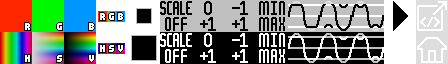
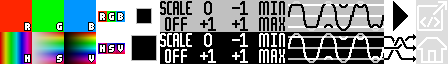
Adding shuffle option, tidying docs

Changed region(s): [[0.8438, 0.5312, 0.9375, 0.9688]]

diff --git a/src/js/colourform.js b/src/js/colourform.js
@@ -1,13 +1,19 @@
 const render = require("./render");
 
+// no cheating on your formulas!
+fetch = null;
+XMLHttpRequest = null;
+
 window.onload = function () {
   const qs = s => document.querySelector(s);
   const renderArea = qs(".render");
   let imageSize, colourMode;
 
   function getCleanedFn(field) {
-    const value = qs("[name=" + field + "]").value;
-    return value.replace(/\n/g, "").trim();
+    let value = qs(`[name=${field}]`).value;
+    value = value.replace(/\n/g, "").trim();
+    value = value.replace(/;$/, "");
+    return value;
   }
 
   function getScale(field) {
@@ -31,30 +37,30 @@ window.onload = function () {
     colourMode = qs("#colourMode").checked ? "hsv" : "rgb";
     qs("#model").className = colourMode;
     if (colourMode === "hsv") {
-      qs("label[for=colourMode]").title = 'Hue, Saturation, Value';
-      qs("label[for=first]").innerHTML = 'Hue';
-      qs("label[for=first]").title = 'Hue formula (0 - 360)';
-      qs("label[for=second]").innerHTML = 'Saturation';
-      qs("label[for=second]").title = 'Saturation formula (0 - 100)';
-      qs("label[for=third]").innerHTML = 'Value';
-      qs("label[for=third]").title = 'Value formula (0 - 100)';
+      qs("label[for=colourMode]").title = "Hue, Saturation, Value";
+      qs("label[for=first]").innerHTML = "Hue";
+      qs("label[for=first]").title = "Hue formula (0 - 360)";
+      qs("label[for=second]").innerHTML = "Saturation";
+      qs("label[for=second]").title = "Saturation formula (0 - 100)";
+      qs("label[for=third]").innerHTML = "Value";
+      qs("label[for=third]").title = "Value formula (0 - 100)";
     } else {
-      qs("label[for=colourMode]").title = 'Red, Green, Blue';
-      qs("label[for=first]").innerHTML = 'Red';
-      qs("label[for=first]").title = 'Red formula (0 - 255)';
-      qs("label[for=second]").innerHTML = 'Green';
-      qs("label[for=second]").title = 'Green formula (0 - 255)';
-      qs("label[for=third]").innerHTML = 'Blue';
-      qs("label[for=third]").title = 'Blue formula (0 - 255)';
+      qs("label[for=colourMode]").title = "Red, Green, Blue";
+      qs("label[for=first]").innerHTML = "Red";
+      qs("label[for=first]").title = "Red formula (0 - 255)";
+      qs("label[for=second]").innerHTML = "Green";
+      qs("label[for=second]").title = "Green formula (0 - 255)";
+      qs("label[for=third]").innerHTML = "Blue";
+      qs("label[for=third]").title = "Blue formula (0 - 255)";
     }
   }
 
   function setImageSize() {
     imageSize = qs("[name=imageSize]").checked ? "big" : "small";
     if (imageSize === "big") {
-      qs("label[for=imageSize]").title = 'Big (1400 x 1400)';
+      qs("label[for=imageSize]").title = "Big (1400 x 1400)";
     } else {
-      qs("label[for=imageSize]").title = 'Small (512 x 512)';
+      qs("label[for=imageSize]").title = "Small (512 x 512)";
     }
   }
 
@@ -63,7 +69,7 @@ window.onload = function () {
   }
 
   function setEnabled(field, disabled) {
-    const fields = document.querySelectorAll("[name=" + field + "]");
+    const fields = document.querySelectorAll(`[name=${field}]`);
     for (let index = 0; index < fields.length; index++) {
       fields[index].disabled = disabled;
     }
@@ -71,7 +77,8 @@ window.onload = function () {
 
   function setFailures(failures) {
     ["first", "second", "third"].forEach(f => {
-      qs(`#${f}`).className = failures.includes(f) ? "invalid" : "";
+      qs(`#${f}`).className = failures[f] ? "invalid" : "";
+      qs(`span[for=${f}].error`).innerHTML = failures[f] || "";
     });
   }
 
@@ -83,9 +90,9 @@ window.onload = function () {
       colourMode,
       imageSize,
       (failures, img) => {
-        setFailures(failures);
+        setFailures(failures || {});
         qs("#run").disabled = false;
-        if (failures && failures.length) {
+        if (failures) {
           setGenerated(false);
         } else {
           img.onclick = () => setGenerated(false);
@@ -103,6 +110,19 @@ window.onload = function () {
     }
     // arbitrary timeout to let the UI update
     setTimeout(runRender, 100);
+  };
+
+  qs("#shuffle").onclick = function () {
+    const positions = ["first", "second", "third"];
+    positions
+      .map(field => ({
+        v: qs(`[name=${field}]`).value,
+        r: Math.random()
+      }))
+      .sort((a, b) => a.r - b.r)
+      .forEach(({ v }, i) => {
+        qs(`[name=${positions[i]}]`).value = v;
+      });
   };
 
   qs("#colourMode").onclick = function (e) {

diff --git a/src/js/render.js b/src/js/render.js
@@ -75,7 +75,7 @@ function asScale(scaleOpt) {
     return (val, max) => val * max;
   }
   if (scaleOpt === "minMax") {
-    return (val, max, low, high) => (max * (val - low)) / (high - low || 1);
+    return (val, max, low, high) => (max * (val - low)) / (high - low);
   }
   return val => val;
 }
@@ -84,7 +84,7 @@ function render(firstOpt, secondOpt, thirdOpt, colourMode, imgSize, callback) {
   let firstFn, secondFn, thirdFn;
   let firstScale, secondScal, thirdScale;
   let firstLimit, secondLimit, thirdLimit;
-  let failures = [];
+  let failures = null;
   const size = sizes[imgSize];
   const imgCanvas = canvas(size);
 
@@ -95,7 +95,7 @@ function render(firstOpt, secondOpt, thirdOpt, colourMode, imgSize, callback) {
     firstLimit = asLimit(firstOpt.limit);
   } catch (e) {
     console.error(e);
-    failures.push(firstOpt.field);
+    failures = { [firstOpt.field]: e };
   }
 
   try {
@@ -105,7 +105,7 @@ function render(firstOpt, secondOpt, thirdOpt, colourMode, imgSize, callback) {
     secondLimit = asLimit(secondOpt.limit);
   } catch (e) {
     console.error(e);
-    failures.push(secondOpt.field);
+    failures = { [secondOpt.field]: e, ...failures };
   }
 
   try {
@@ -115,10 +115,10 @@ function render(firstOpt, secondOpt, thirdOpt, colourMode, imgSize, callback) {
     thirdLimit = asLimit(thirdOpt.limit);
   } catch (e) {
     console.error(e);
-    failures.push(thirdOpt.field);
+    failures = { [thirdOpt.field]: e, ...failures };
   }
 
-  if (failures.length) {
+  if (failures) {
     callback(failures);
     return;
   }
@@ -150,6 +150,16 @@ function render(firstOpt, secondOpt, thirdOpt, colourMode, imgSize, callback) {
     }
   }
 
+  if (firstMin === firstMax) {
+    firstMin = 0;
+  }
+  if (secondMin === secondMax) {
+    secondMin = 0;
+  }
+  if (thirdMin === thirdMax) {
+    thirdMin = 0;
+  }
+
   let [l1, l2, l3] = limits[colourMode];
   for (let x = 0; x < size; x++) {
     for (let y = 0; y < size; y++) {
@@ -166,7 +176,7 @@ function render(firstOpt, secondOpt, thirdOpt, colourMode, imgSize, callback) {
     }
   }
 
-  callback([], imgCanvas.buildImage());
+  callback(null, imgCanvas.buildImage());
 }
 
 module.exports = render;

diff --git a/src/index.html b/src/index.html
@@ -17,6 +17,7 @@
         <!-- prettier-ignore -->
         <textarea id="first" name="first" rows="3" spellcheck="false">
 (x + 0.1) * y * 2.5</textarea>
+        <span for="first" class="error"></span>
         <div class="controls">
           <input
             id="firstMinMax"
@@ -67,6 +68,7 @@
         <!-- prettier-ignore -->
         <textarea id="second" name="second" rows="3" spellcheck="false">
 (Math.pow(x, 1.5) - 0.1) * y * 2.9</textarea>
+        <span for="second" class="error"></span>
         <div class="controls">
           <input
             id="secondMinMax"
@@ -117,6 +119,7 @@
         <!-- prettier-ignore -->
         <textarea id="third" name="third" rows="3" spellcheck="false">
 x * Math.pow(y, 0.5) * 2.7</textarea>
+        <span for="third" class="error"></span>
         <div class="controls">
           <input
             id="thirdMinMax"
@@ -167,6 +170,7 @@ x * Math.pow(y, 0.5) * 2.7</textarea>
         <label for="colourMode" title="HSV"></label>
         <input id="imageSize" type="checkbox" name="imageSize" />
         <label for="imageSize" title="Small"></label>
+        <button id="shuffle" title="Shuffle"></button>
         <button id="run" title="Run"></button>
         <a class="home" href=".."></a>
         <a

diff --git a/src/css/colourform.css b/src/css/colourform.css
@@ -94,6 +94,13 @@ a.sourceCode {
   background-position: -384px 0;
 }
 
+#shuffle {
+  width: 34px;
+  height: 34px;
+  background-position: -384px -32px;
+  margin-right: 4px;
+}
+
 #run:disabled {
   opacity: 0.1;
 }
@@ -191,16 +198,20 @@ textarea.invalid {
   border-color: red;
 }
 
+span.error {
+  color: red;
+}
+
 a.home {
   background-position: -416px -32px;
   position: relative;
-  left: 118px;
+  left: 88px;
 }
 
 a.sourceCode {
   background-position: -416px 0;
   position: relative;
-  left: 122px;
+  left: 90px;
 }
 
 @media only screen and (max-width: 768px) {

diff --git a/README.md b/README.md
@@ -2,10 +2,26 @@
 Enter three formulas and press the 'Run' button to generate an image.
 
 # formulas
-When creating a formula there are three supplies values you can use:  `x`, `y` and `pi2` (= Math.PI * 2).
+In each textarea write a formula that when run will return a numeric value, that will be used as the value for a colour attribute. Each formula is parsed using plain javascript, so you can use the [Math](https://developer.mozilla.org/en-US/docs/Web/JavaScript/Reference/Global_Objects/Math) library.
+
+When creating a formula there are three supplied values you can use:  `x`, `y` and `pi2` (= Math.PI * 2).
 Note that `x` and `y` are not absolute positions, they are scaled values from zero to one.
 So, for example, setting a formula to `Math.sin(x * pi2)` when run would give a sinusuoidal shape from left to right.
-Each formula is parsed using plain javascript.
+
+Note that the text area expects a single-line formula only, not a code block, so you can't define variables. Any 'logic' can be implemented using ternaries. So, instead of
+```
+if (x > y) {
+  return Math.sin(x * pi2 * 9)
+} else {
+  return Math.sin(y * pi2 * 11)
+}
+```
+just use
+```
+x > y ? Math.sin(x * pi2 * 9) : Math.sin(y * pi2 * 11)
+```
+
+NOTE: As this runs any javascript entered into those boxes, never run code you don't trust.
 
 # control
 Each attribute expects a different value range
@@ -20,7 +36,7 @@ For RGB
 * Blue: 0 - 255
 
 Under each text area there are a set of controls for scaling and limiting the output of the formula entered to match the needed range.
-* Min Max - calculate the minimum and maximum for the formula, then scale the values to match the range
+* Min Max - this is effectively auto-scaling. Calculate the minimum and maximum for the formula, then scale the values to match that range. Note that if you provide a constant for a formula, then `0` will be scaled to zero and _any_ non-zero will be scaled to the maximum.
 * Scale Off - no scaling performed, just use the output from the formula
 * 0 to 1 - assume the formula generates a value from zero to 1 and scale appropriately
 * -1 to +1 - assume the formula generates a value from -1 to +1 and scale appropriately (useful if you are using sine or cosine to generate your values)
@@ -29,6 +45,10 @@ For the latter three options limit functions can then be applied. If for example
 * Limit - stop at the minimum or maximum, so 360 would be limited to 360
 * Wrap - when passing the maximum return to the minimum plus the remainder, or when passing the minimum return to the maximum minus the remainder. In this case 361 would become 1.
 * Reflect - change direction at the minimum or maximum and continue with the remainder. In this case 361 would become 359.
+
+There are two image sizes, small (512 x 512) and big (1400 x 1400). As `x` and `y` in the formulas runs from 0 to 1 the generated image should be mostly the same, just different resolutions. Also, the smaller image will render a lot quicker.
+
+The shuffle button mixes the formulas, but does not adjust any of the other options.
 
 # development
 To run development mode
@@ -41,9 +61,4 @@ export NODE_ENV=production
 npm run build
 ```
 
-TODO - show formular error message
-TODO - finish documentation
-TODO - worker for generation?
-TODO - handle when mix=max and no scale
-TODO - add formula shuffle
-
+Potential future change - use a worker for generation?
